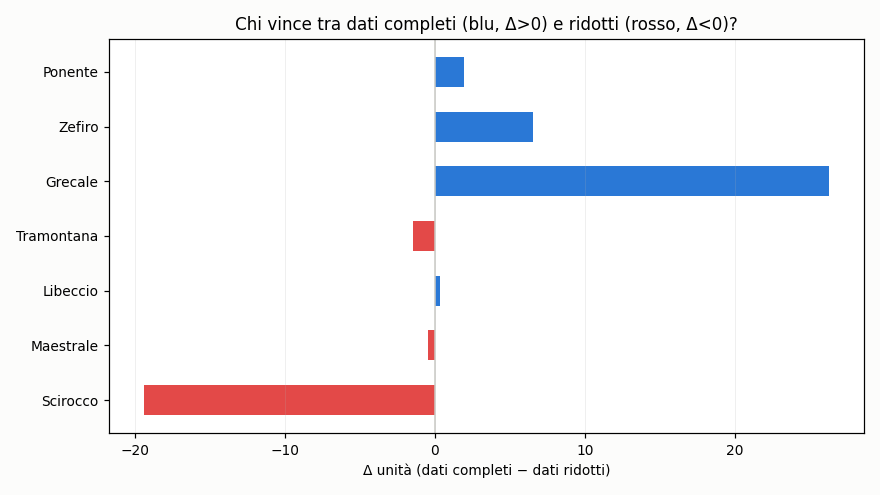
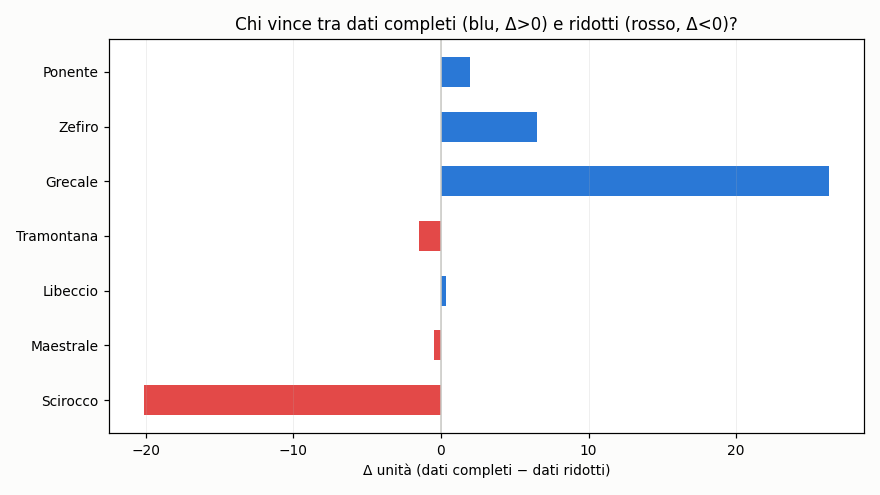
aggiornamento 2026-07-26 15:06 UTC

diff --git a/README.md b/README.md
@@ -37,9 +37,9 @@ scala in unità). Non indichiamo quale.
 
 ## Grafici
 
-![Coppie: dati completi vs ridotti](https://raw.githubusercontent.com/Kitem19/ippica-track-record/main/charts/equity_pairs.png?v=01d5324b)
+![Coppie: dati completi vs ridotti](https://raw.githubusercontent.com/Kitem19/ippica-track-record/main/charts/equity_pairs.png?v=02b25232)
 
-![Delta per coppia](https://raw.githubusercontent.com/Kitem19/ippica-track-record/main/charts/coppie_delta.png?v=14fc536f)
+![Delta per coppia](https://raw.githubusercontent.com/Kitem19/ippica-track-record/main/charts/coppie_delta.png?v=e3db9282)
 
 ### Come leggere i grafici
 
@@ -56,7 +56,7 @@ scala in unità). Non indichiamo quale.
 
 _Poche giornate: numeri ancora rumorosi, si conclude a fine fase (31/7)._
 
-- **Scirocco**: dati ridotti avanti di 19,4u — qui gli extra non aiutano
+- **Scirocco**: dati ridotti avanti di 20,1u — qui gli extra non aiutano
 - **Maestrale**: in sostanziale pareggio — troppo presto per dire
 - **Libeccio**: in sostanziale pareggio — troppo presto per dire
 - **Tramontana**: in sostanziale pareggio — troppo presto per dire
@@ -69,12 +69,12 @@ _Poche giornate: numeri ancora rumorosi, si conclude a fine fase (31/7)._
 | Sistema | Cassa (u) | P/L (u) | Selezioni | Escluse | Stato |
 |---|---|---|---|---|---|
 | Grecale | 26,1 | +6,1 | 301 | 4 | 🟢 |
-| Scirocco-B | 19,4 | -0,6 | 232 | 0 | 🟢 |
+| Scirocco-B | 20,1 | +0,1 | 233 | 0 | 🟢 |
 | Zefiro | 6,1 | -13,9 | 261 | 8 | ⏸ |
 | Tramontana-B | 1,2 | -18,8 | 323 | 12 | ⏸ |
 | Ponente | 1,0 | -19,0 | 210 | 28 | 🟢 |
 | Maestrale-B | 0,0 | -20,0 | 100 | 234 | 🛑 |
-| Scirocco | 0,0 | -20,1 | 80 | 255 | 🛑 |
+| Scirocco | 0,0 | -20,1 | 80 | 256 | 🛑 |
 | Grecale-B | 0,0 | -20,2 | 137 | 173 | 🛑 |
 | Tramontana | 0,0 | -20,3 | 45 | 305 | 🛑 |
 | Zefiro-B | 0,0 | -20,5 | 143 | 70 | 🛑 |
@@ -83,7 +83,7 @@ _Poche giornate: numeri ancora rumorosi, si conclude a fine fase (31/7)._
 | Libeccio-B | 0,0 | -20,9 | 119 | 178 | 🛑 |
 | Ponente-B | 0,0 | -21,0 | 63 | 84 | 🛑 |
 
-_Aggiornato: 26/07 17:01_
+_Aggiornato: 26/07 17:06_
 ---
 *Nessuna delle informazioni qui pubblicate costituisce consiglio di gioco.
 Il gioco può causare dipendenza — 18+.*
